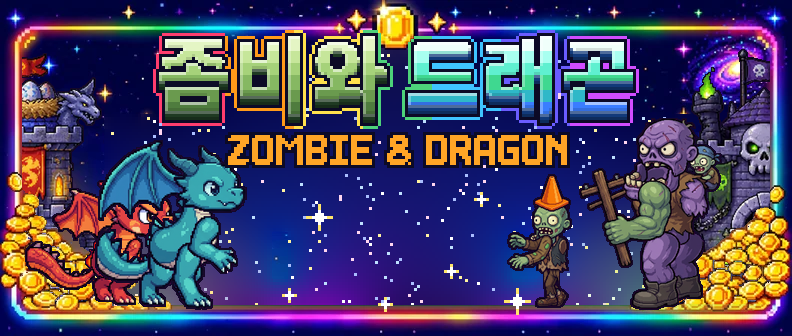
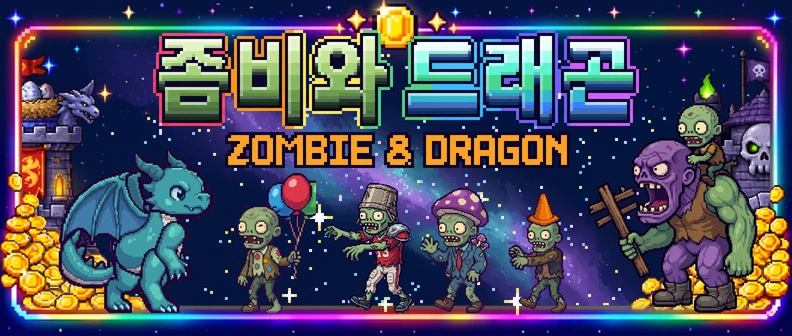
좀비와 드래곤 검토 반영 3차: 보조 새 그림 연결 · 폰 꽉 채우기 · 글씨 도트 외곽선 규칙 · 빛번짐 줄임
- 보조 그림(59983dd · 15223b7): 새 타이틀 · 스킬 · 소리 아이콘 · 도트 체력 바(유닛 · 양쪽 성) · 호박 빛 · 검은 박쥐 떼
  · 브레스 단추 새 그림은 대표님 말씀대로 이전 그림으로 되돌림
- 폰 가로: 좌우 빈칸 없이 가로를 꽉 채움 · 모자라면 하늘 위를 더 자르고 땅은 아래 띠 바로 위에 · 위 · 아래 띠 · 단추 더 얇고 작게
- 글씨 규칙: 흐린 그림자 · 글로우 금지 → 1px 8방향 도트 외곽선(--idg-pxo 변수) 22곳 일괄
- 빛번짐 규칙: 브레스 · 화로 · 시작 단추 · 카드 번쩍의 번짐 글로우를 딱딱한 테 · 아주 약한 밝기로
- 용 카드: 얼굴과 숫자를 1px 겹쳐 붙임 · 숫자 크게 / 화로 칸: 화로 · Lv · 값 가운데
- R2 판 번호 idg 20261111c · ui 20261111b (같은 이름 그림이 바뀜) — 업로드 끝 · 브레스 되돌린 그림은 배포 전에 다시 올려야 함

diff --git a/src/styles/iandragon-game.css b/src/styles/iandragon-game.css
@@ -1,4 +1,6 @@
 /* 이안 드래곤 게임 (2026-11-10) — 세로 로비 + 가로 게임 화면 */
+/* 글씨 외곽선 규칙 (2026-11-11 대표님 «그림자만 있으면 픽셀아트 느낌이 사라진다 · 규칙으로 정해») — 흐린 그림자 · 글로우 금지, 1px 8방향 딱딱한 외곽선 + 아래 2px */
+:root { --idg-pxo: 1px 0 0 #1a0c38, -1px 0 0 #1a0c38, 0 1px 0 #1a0c38, 0 -1px 0 #1a0c38, 1px 1px 0 #1a0c38, -1px 1px 0 #1a0c38, 1px -1px 0 #1a0c38, -1px -1px 0 #1a0c38, 0 2px 0 #1a0c38; --idg-pxo-fire: 1px 0 0 #7a1c00, -1px 0 0 #7a1c00, 0 1px 0 #7a1c00, 0 -1px 0 #7a1c00, 1px 1px 0 #7a1c00, -1px 1px 0 #7a1c00, 1px -1px 0 #7a1c00, -1px -1px 0 #7a1c00, 0 2px 0 #7a1c00; --idg-pxo-gold: 1px 0 0 #7a4a00, -1px 0 0 #7a4a00, 0 1px 0 #7a4a00, 0 -1px 0 #7a4a00, 1px 1px 0 #7a4a00, -1px 1px 0 #7a4a00, 1px -1px 0 #7a4a00, -1px -1px 0 #7a4a00, 0 2px 0 #7a4a00; --idg-pxo-red: 1px 0 0 #5a0000, -1px 0 0 #5a0000, 0 1px 0 #5a0000, 0 -1px 0 #5a0000, 1px 1px 0 #5a0000, -1px 1px 0 #5a0000, 1px -1px 0 #5a0000, -1px -1px 0 #5a0000, 0 2px 0 #5a0000; }
 
 /* ── 가로 게임 화면에 있는 동안만 : 오락실의 «폭 450» 틀을 풀어 창 전체를 쓴다 (reset.css 11/6 규칙의 예외) ── */
 html.idg-wide body { width: 100%; }
@@ -48,15 +50,15 @@ html.idg-wide body { width: 100%; }
   padding: max(6px, env(safe-area-inset-top)) max(8px, env(safe-area-inset-right)) max(6px, env(safe-area-inset-bottom)) max(8px, env(safe-area-inset-left)); }
 .idg-hud .idg-btn { pointer-events: auto; cursor: pointer; border: 2px solid #FFC93C; background: rgba(20, 8, 42, .85); color: #FFC93C; border-radius: 10px; font: inherit; touch-action: manipulation; }
 .idg-hud .idg-btn:active { transform: translateY(1px); }
-.idg-top { display: flex; align-items: center; gap: 8px; text-shadow: 0 2px 0 #000; }
+.idg-top { display: flex; align-items: center; gap: 8px; text-shadow: var(--idg-pxo); }
 .idg-pause, .idg-speed { min-width: 40px; height: 34px; padding: 0 8px; }
 .idg-title { color: #FFC93C; white-space: nowrap; overflow: hidden; text-overflow: ellipsis; max-width: 30%; }
 .idg-time { color: #e9dcc0; }
 .idg-money { margin-left: auto; display: flex; align-items: center; gap: 4px; padding: 3px 10px; border-radius: 999px; background: rgba(20, 8, 42, .8); color: #FFD27a; font-size: 15px; }
 .idg-ico-ember { width: 14px; height: 18px; display: inline-block; background: radial-gradient(circle at 50% 70%, #ffe27a 0 30%, #ff7a1a 31% 60%, transparent 61%); }
-.idg-hp { display: flex; justify-content: space-between; margin-top: 4px; font-size: 14px; text-shadow: 0 2px 0 #000; }
+.idg-hp { display: flex; justify-content: space-between; margin-top: 4px; font-size: 14px; text-shadow: var(--idg-pxo); }
 .idg-hp-me { color: #9cf; } .idg-hp-foe { color: #f99; }
-.idg-boss { position: absolute; left: 50%; top: 44px; transform: translateX(-50%); display: none; align-items: center; gap: 6px; color: #ffb3b3; text-shadow: 0 2px 0 #000; }
+.idg-boss { position: absolute; left: 50%; top: 44px; transform: translateX(-50%); display: none; align-items: center; gap: 6px; color: #ffb3b3; text-shadow: var(--idg-pxo); }
 .idg-boss.on { display: flex; }
 .idg-boss b { width: 180px; height: 10px; border: 2px solid #ff6b6b; border-radius: 6px; background: rgba(0, 0, 0, .6); overflow: hidden; display: block; }
 .idg-boss i { display: block; height: 100%; background: linear-gradient(#ff8a8a, #d32f2f); }
@@ -77,7 +79,7 @@ html.idg-wide body { width: 100%; }
 .idg-unit .cd { position: absolute; inset: 0; background: conic-gradient(rgba(0,0,0,.65) calc(var(--p, 0) * 360deg), transparent 0); }
 .idg-unit.poor img { filter: grayscale(1) brightness(.55); }
 .idg-unit.flash { animation: idgFlash .35s ease-out; }
-@keyframes idgFlash { from { box-shadow: 0 0 14px #fff, inset 0 0 12px #fff; } }
+@keyframes idgFlash { from { box-shadow: 0 0 0 2px #fff; } }   /* 다 됐을 때 번쩍 = 딱딱한 흰 테 (빛번짐 금지 규칙) */
 .idg-right { display: flex; flex-direction: column; gap: 4px; }
 .idg-skill, .idg-rage { height: 30px; padding: 0 8px; font-size: 11px; }
 .idg-skill:disabled { opacity: .4; }
@@ -166,7 +168,7 @@ html.idg-wide body { width: 100%; }
 .idg-hatch-grid { display: grid; grid-template-columns: repeat(1, 120px); gap: 6px; justify-content: center; }
 .idg-hatch-grid.ten { grid-template-columns: repeat(5, 1fr); }
 .idg-hatch-card { display: flex; flex-direction: column; align-items: center; padding: 4px; border-radius: 10px; border: 2px solid #6fb7ff; background: #1a1033; color: #fff; font: 11px 'Neo둥근모', monospace; animation: idgPop .35s backwards cubic-bezier(.3, 1.6, .5, 1); }
-.idg-hatch-card.super { border-color: #c08bff; } .idg-hatch-card.legend { border-color: #ffd84a; box-shadow: 0 0 12px #ffd84a; }
+.idg-hatch-card.super { border-color: #c08bff; } .idg-hatch-card.legend { border-color: #ffd84a; box-shadow: 0 0 0 2px #ffd84a; }
 .idg-hatch-card img { width: 48px; height: 48px; object-fit: contain; image-rendering: pixelated; }
 .idg-hatch-card span { color: #FFC93C; font-size: 10px; }
 @keyframes idgPop { from { transform: scale(.2); opacity: 0; } }
@@ -213,7 +215,7 @@ html.idg-wide body { width: 100%; }
 /* 보스 이름 띠 (2026-11-11) — 보스 등장 컷인 1.2초 동안. 얼굴은 캔버스(bossFx.js), 글씨는 여기 DOM */
 .idg-bossname { position: absolute; left: 0; right: 0; top: 56%; display: none; padding: 8px 0 8px 6%; background: linear-gradient(90deg, rgba(120, 0, 0, .85), rgba(40, 0, 0, .75) 70%, rgba(0, 0, 0, 0)); border-top: 2px solid #ff6b6b; border-bottom: 2px solid #ff6b6b; }
 .idg-bossname.on { display: block; animation: idgBossName 1.2s linear forwards; }
-.idg-bossname b { font-size: 30px; letter-spacing: 4px; color: #ffe08a; text-shadow: 0 3px 0 #000, 0 0 12px #ff3a1a; }
+.idg-bossname b { font-size: 30px; letter-spacing: 4px; color: #ffe08a; text-shadow: var(--idg-pxo); }
 @keyframes idgBossName { 0% { transform: translateX(-100%); opacity: 1 } 20% { transform: translateX(0) } 80% { transform: translateX(0); opacity: 1 } 100% { transform: translateX(0); opacity: 0 } }
 
 /* 멀티 — 상대를 기다리는 중 (2026-11-11) */
@@ -232,7 +234,7 @@ html.idg-wide body { width: 100%; }
 .idg-tile:active { transform: translateY(2px); box-shadow: 0 1px 0 #8a5a00; }
 .idg-tile.locked { opacity: .5; } .idg-tile.dot::after { content: ''; position: absolute; top: 6px; right: 6px; width: 10px; height: 10px; border-radius: 50%; background: #ff4d4d; box-shadow: 0 0 6px #ff4d4d; }
 .idg-start { width: 100%; min-height: 64px; border: 0; border-radius: 16px; background: url(/assets/iandragon_game/ui/lobby/btn_start.png) center / 100% 100% no-repeat, linear-gradient(180deg, #ff7a1a, #c2410c); color: #fff;
-  font: 900 22px 'Neo둥근모', monospace; letter-spacing: 2px; text-shadow: 0 3px 0 #5a1a00; box-shadow: 0 4px 0 #6a2200; margin-bottom: 8px; }
+  font: 900 22px 'Neo둥근모', monospace; letter-spacing: 2px; text-shadow: var(--idg-pxo-fire); box-shadow: 0 4px 0 #6a2200; margin-bottom: 8px; }
 .idg-start:active { transform: translateY(2px); box-shadow: 0 2px 0 #6a2200; }
 
 /* 친구랑 같이 깨기 (2026-11-11) */
@@ -249,40 +251,40 @@ html.idg-wide body { width: 100%; }
   #120a26 url(/assets/iandragon_game/ui/lobby/bg.webp) center top / cover no-repeat; }   /* bg.webp = A안 · B안으로 정하시면 bg_b.webp 를 bg.webp 로 */
 .panel.idg-panel { background: rgba(22, 12, 48, .82); border: 22px solid transparent; border-width: 22px 30px; border-radius: 0;
   border-image: url(/assets/iandragon_game/ai/lobby/frame.webp) 88 118 / 22px 30px / 6px 8px stretch; box-shadow: none; padding: 6px 4px; text-align: center; }
-.idg-tile { min-height: 54px; padding: 2px 10px 2px 4px; border-radius: 0; background: none; box-shadow: none; color: #ffe9b0; text-shadow: 0 2px 0 #1a0c38, 0 0 6px #000;
+.idg-tile { min-height: 54px; padding: 2px 10px 2px 4px; border-radius: 0; background: none; box-shadow: none; color: #ffe9b0; text-shadow: var(--idg-pxo);
   border: 12px solid transparent; border-width: 12px 18px; border-image: url(/assets/iandragon_game/ai/lobby/btn_menu.webp) 58 80 fill / 12px 18px stretch; }
 .idg-tile img { width: 44px; height: 44px; }
 .idg-tile:active { filter: brightness(.82); box-shadow: none; }
-.idg-start { min-height: 74px; border-radius: 0; background: none; box-shadow: none; text-shadow: 0 2px 0 #7a1c00, 0 0 8px #ff8a2a;
+.idg-start { min-height: 74px; border-radius: 0; background: none; box-shadow: none; text-shadow: var(--idg-pxo-fire);
   border: 18px solid transparent; border-width: 18px 40px; border-image: url(/assets/iandragon_game/ai/lobby/btn_start.webp) 70 150 fill / 18px 40px stretch; animation: idgSkinBreath 2.4s ease-in-out infinite; }
 .idg-start:active { box-shadow: none; filter: brightness(.9); }
-@keyframes idgSkinBreath { 50% { filter: brightness(1.12) drop-shadow(0 0 8px #ff7a1a88); } }
+@keyframes idgSkinBreath { 50% { filter: brightness(1.06); } }
 /* 로비 창 (스테이지 고르기 · 둥지 · 연구소 · 도감 · 과제 · 하는 법 · 같이 깨기) */
 .dialog[class*="idg-"] { background: none; color: #e8dcff; box-shadow: none; border: 26px solid transparent; border-image: url(/assets/iandragon_game/ai/lobby/dialog.webp) 64 64 fill / 26px stretch; }
-.dialog .idg-how-title { display: block; margin: -6px auto 8px; padding: 8px 44px 12px; width: fit-content; color: #fff; text-shadow: 0 2px 0 #7a1c00;
+.dialog .idg-how-title { display: block; margin: -6px auto 8px; padding: 8px 44px 12px; width: fit-content; color: #fff; text-shadow: var(--idg-pxo-fire);
   background: url(/assets/iandragon_game/ai/lobby/ribbon.webp) center / 100% 100% no-repeat; }
 .dialog[class*="idg-"] p, .idg-world-name, .idg-multi-msg, .idg-multi-code { color: #e8dcff; }
-.dialog[class*="idg-"] .pbtn { background: none; color: #ffe9b0; text-shadow: 0 2px 0 #1a0c38; box-shadow: none;
+.dialog[class*="idg-"] .pbtn { background: none; color: #ffe9b0; text-shadow: var(--idg-pxo); box-shadow: none;
   border: 12px solid transparent; border-width: 10px 16px; border-image: url(/assets/iandragon_game/ai/lobby/btn_menu.webp) 58 80 fill / 10px 16px stretch; }
-.dialog[class*="idg-"] .pbtn.primary { color: #fff; text-shadow: 0 2px 0 #7a1c00; border-width: 12px 28px; border-image: url(/assets/iandragon_game/ai/lobby/btn_start.webp) 70 150 fill / 12px 28px stretch; }
+.dialog[class*="idg-"] .pbtn.primary { color: #fff; text-shadow: var(--idg-pxo-fire); border-width: 12px 28px; border-image: url(/assets/iandragon_game/ai/lobby/btn_start.webp) 70 150 fill / 12px 28px stretch; }
 .idg-multi-code b { color: #ffe9b0; }
-.idg-stage-btn { border: 0; border-radius: 0; background: url(/assets/iandragon_game/ai/lobby/tile.webp) center / 100% 100% no-repeat; min-height: 60px; text-shadow: 0 1px 0 #000; }
+.idg-stage-btn { border: 0; border-radius: 0; background: url(/assets/iandragon_game/ai/lobby/tile.webp) center / 100% 100% no-repeat; min-height: 60px; text-shadow: var(--idg-pxo); }
 .idg-stage-btn.boss { background-image: url(/assets/iandragon_game/ai/lobby/tile_boss.webp); padding-top: 8px; }
 .idg-stage-btn.locked { background-image: url(/assets/iandragon_game/ai/lobby/tile_locked.webp); opacity: 1; color: #aab; }
 .idg-stage-btn .idg-stage-stars { color: #ffd84a; }
-.idg-world-tab { border: 0; border-radius: 50%; width: 42px; height: 42px; background: url(/assets/iandragon_game/ai/lobby/badge.webp) center / 100% 100% no-repeat; color: #ffe9b0; text-shadow: 0 1px 0 #000; }
+.idg-world-tab { border: 0; border-radius: 50%; width: 42px; height: 42px; background: url(/assets/iandragon_game/ai/lobby/badge.webp) center / 100% 100% no-repeat; color: #ffe9b0; text-shadow: var(--idg-pxo); }
 .idg-world-tab.on { background-image: url(/assets/iandragon_game/ai/lobby/badge_on.webp); color: #fff; }
-.idg-nest-help, .idg-nest-deck, .idg-hatch-info, .idg-codex-h, .idg-nest-coins { color: #ffd98a; text-shadow: 0 1px 0 #1a0c38; }
+.idg-nest-help, .idg-nest-deck, .idg-hatch-info, .idg-codex-h, .idg-nest-coins { color: #ffd98a; text-shadow: var(--idg-pxo); }
 /* 전투 HUD : 위 · 아래 띠 · 돌 판 버튼 · 용 카드 칸 · 불꽃 브레스 판 */
 .idg-top { border: 10px solid transparent; border-width: 8px 14px 12px; border-image: url(/assets/iandragon_game/ai/hud/bar_top.webp) 34 60 40 fill / 8px 14px 12px stretch; margin: 0 -4px; padding: 0 6px; }
 .idg-bot { border: 10px solid transparent; border-width: 12px 14px 8px; border-image: url(/assets/iandragon_game/ai/hud/bar_bottom_clean.webp) 40 60 34 fill / 12px 14px 8px stretch; padding: 2px 6px; }
-.idg-hud .idg-btn { border: 8px solid transparent; border-radius: 0; background: none; border-image: url(/assets/iandragon_game/ui/hud_btn_square.png) 24 fill / 8px stretch; image-rendering: pixelated; color: #ffe9b0; text-shadow: 0 1px 0 #000; }
+.idg-hud .idg-btn { border: 8px solid transparent; border-radius: 0; background: none; border-image: url(/assets/iandragon_game/ui/hud_btn_square.png) 24 fill / 8px stretch; image-rendering: pixelated; color: #ffe9b0; text-shadow: var(--idg-pxo); }
 .idg-hud .idg-btn:active { border-image-source: url(/assets/iandragon_game/ui/hud_btn_square_pressed.png); transform: none; }
 .idg-hud .idg-pause { background: url(/assets/iandragon_game/ui/hud_pause.png) center / 20px no-repeat; border-image-source: url(/assets/iandragon_game/ui/hud_btn_round.png); }
 .idg-hud .idg-unit { border: 0; border-image: none; background: url(/assets/iandragon_game/ai/hud/slot.webp) center / 100% 100% no-repeat; overflow: visible; }
 .idg-hud .idg-unit img { width: 78%; margin: 4px auto 0; height: 34px; }
 .idg-hud .idg-unit:not(.poor) { background-image: url(/assets/iandragon_game/ai/hud/slot_ready.webp); }
-.idg-hud .idg-unit .cost { background: none; text-shadow: 0 1px 0 #000, 0 0 3px #000; bottom: 3px; }
+.idg-hud .idg-unit .cost { background: none; text-shadow: var(--idg-pxo); bottom: 3px; }
 .idg-hud .idg-unit .cd { inset: 4px; border-radius: 4px; }
 .idg-hud .idg-breath { width: 64px; height: 64px; border: 0; border-image: none; overflow: hidden; border-radius: 50%; background: url(/assets/iandragon_game/ai/hud/btn_breath.webp) center / 100% 100% no-repeat; }
 .idg-hud .idg-breath .fill { border-radius: 50%; inset: 8px; width: auto; height: auto; opacity: .45; clip-path: inset(calc((1 - var(--p, 0)) * 100%) 0 0 0); }
@@ -293,12 +295,12 @@ html.idg-wide body { width: 100%; }
 .idg-card:has(h2.win)::before, .idg-card:has(h2.lose)::before { content: ''; display: block; width: min(340px, 70vw); aspect-ratio: 16 / 9; margin: -6px auto 8px; border-radius: 8px;
   background: url(/assets/iandragon_game/ai/result/win.webp) center / cover no-repeat; box-shadow: 0 0 0 3px #1a0c38, 0 0 0 5px #c9963a; }
 .idg-card:has(h2.lose)::before { background-image: url(/assets/iandragon_game/ai/result/lose.webp); }
-.idg-stars span.on { color: #ffd84a; text-shadow: 0 2px 0 #7a4a00, 0 0 8px #ffb000; }
+.idg-stars span.on { color: #ffd84a; text-shadow: var(--idg-pxo-gold); }
 .idg-boss b { width: 200px; height: 18px; border: 6px solid transparent; border-radius: 0; background: rgba(0, 0, 0, .55); border-image: url(/assets/iandragon_game/ai/hud/bar_progress.webp) 40 60 fill / 6px 9px stretch; background-clip: padding-box; }
 .idg-mini { border: 5px solid transparent; border-radius: 0; background: rgba(10, 4, 24, .7); background-clip: padding-box; height: 20px; border-image: url(/assets/iandragon_game/ai/hud/bar_progress.webp) 40 60 fill / 5px 8px stretch; }
 .idg-tile span { white-space: nowrap; font-size: 13px; letter-spacing: -.5px; overflow: hidden; text-overflow: ellipsis; }
 .idg-tile { gap: 4px; padding-right: 4px; } .idg-tile img { width: 38px; height: 38px; } .idg-tile span { font-size: 12px; }   /* 375 폭에서 «연구소 · 리더» 잘림 (보조 의견) */
-.pbtn.idg-back { position: relative; min-height: 46px; background: none; box-shadow: none; color: #ffe9b0; text-shadow: 0 2px 0 #1a0c38, 0 0 6px #000;
+.pbtn.idg-back { position: relative; min-height: 46px; background: none; box-shadow: none; color: #ffe9b0; text-shadow: var(--idg-pxo);
   border: 12px solid transparent; border-width: 12px 18px; border-image: url(/assets/iandragon_game/ai/lobby/btn_menu.webp) 58 80 fill / 12px 18px stretch; }
 .pbtn.idg-back::before { content: ''; display: inline-block; width: 26px; height: 26px; margin-right: 6px; vertical-align: middle; background: url(/assets/iandragon_game/ai/lobby/ico_arcade.png) center / contain no-repeat; image-rendering: pixelated; }
 .pbtn.idg-back:active { filter: brightness(.82); }
@@ -310,7 +312,7 @@ html.idg-wide body { width: 100%; }
 .idg-diff-btn { min-width: 76px; min-height: 36px; border-radius: 10px; border: 2px solid #c9963a; background: rgba(26, 14, 52, .85); color: #e8dcff; font: 700 13px 'Neo둥근모', monospace; }
 .idg-diff-btn.on.easy { background: #2f8a4a; color: #fff; } .idg-diff-btn.on.normal { background: #7a5cff; color: #fff; } .idg-diff-btn.on.hard { background: #c2262e; color: #fff; }
 .idg-diff-btn:disabled { opacity: .5; }
-.idg-stage-stars.red, .idg-stars.red span.on { color: #ff4d4d !important; text-shadow: 0 2px 0 #5a0000, 0 0 8px #ff2a2a !important; }
+.idg-stage-stars.red, .idg-stars.red span.on { color: #ff4d4d !important; text-shadow: var(--idg-pxo-red) !important; }
 .idg-diff { font-weight: 700; } .idg-diff.hard { color: #ff6a6a; } .idg-diff.easy { color: #7ee08f; }
 .idg-mate { position: absolute; left: 50%; top: 62px; transform: translateX(-50%); padding: 3px 12px; border-radius: 10px; background: rgba(20, 60, 30, .8); color: #c8ffd0; font: 700 12px 'Neo둥근모', monospace; display: none; pointer-events: none; }
 .idg-mate.on { display: block; } .idg-mate.foe { background: rgba(80, 16, 20, .8); color: #ffd0d0; }
@@ -354,7 +356,7 @@ html.idg-wide body { width: 100%; }
 .idg-bot { align-items: center; gap: 8px; }
 .idg-hud .idg-wallet { width: 66px; height: 58px; border: 0; border-image: none; background: url(/assets/iandragon_game/ai/hud/slot.webp) center / 100% 100% no-repeat; gap: 1px; padding: 4px 0 6px; line-height: 1; }   /* 네모 돌 판 모서리의 검은 사각 그림자 → 덱 칸과 같은 판 */
 .idg-hud .idg-wallet.can { background-image: url(/assets/iandragon_game/ai/hud/slot_ready.webp); box-shadow: none; animation: idgGlowF 1s ease-in-out infinite alternate; }
-@keyframes idgGlowF { from { filter: drop-shadow(0 0 2px #ff9a2e); } to { filter: drop-shadow(0 0 8px #ff9a2e); } }
+@keyframes idgGlowF { to { filter: brightness(1.08); } }
 .idg-hud .idg-wallet b { font-size: 14px; color: #ffe9b0; } .idg-hud .idg-wallet span { font-size: 12px; color: #FFD27a; }
 .idg-hud .idg-unit { height: 58px; }
 .idg-deck .idg-unit { flex: 0 1 56px; }
@@ -376,7 +378,7 @@ html.idg-wide body { width: 100%; }
 .idg-hud .idg-breath { width: 72px; height: 72px; flex: none; transition: transform .15s; }
 .idg-hud .idg-breath b { width: 44px; height: 44px; }
 .idg-hud .idg-breath.can { animation: idgBreathPulse .9s ease-in-out infinite; box-shadow: 0 0 0 3px #ffd84a, 0 0 16px 6px rgba(255, 122, 26, .85); }
-@keyframes idgBreathPulse { 50% { transform: scale(1.09); filter: brightness(1.25) drop-shadow(0 0 10px #ff9a2e); } }
+@keyframes idgBreathPulse { 50% { transform: scale(1.04); filter: brightness(1.08); } }
 /* 안내 말풍선 : 아래 띠 위로 · 화면 밖으로 잘리지 않게 */
 .idg-tip { max-width: calc(100% - 24px); text-align: center; line-height: 1.35; font-size: 15px; z-index: 2; }
 .idg-tip[data-at="deck"] { bottom: 100px; } .idg-tip[data-at="breath"] { right: 8px; bottom: 100px; } .idg-tip[data-at="wallet"] { left: 8px; bottom: 100px; }
@@ -385,12 +387,12 @@ html.idg-wide body { width: 100%; }
 
 /* ── 결과 · 시작 · 일시정지 카드 : 호박 모서리가 안 잘리는 판(dialog9) · 버튼은 돌 판 / 불꽃 판 (노란 껍데기 없앰) ── */
 .idg-card { min-width: 300px; max-width: min(460px, 92vw); border-width: 34px 32px; border-image: url(/assets/iandragon_game/ai/lobby/dialog9.webp) 104 100 fill / 34px 32px stretch; padding: 0 6px 2px; }
-.idg-card h2 { margin: 0 0 6px; font-size: 22px; line-height: 1.2; text-align: center; text-shadow: 0 2px 0 #1a0c38; }
+.idg-card h2 { margin: 0 0 6px; font-size: 22px; line-height: 1.2; text-align: center; text-shadow: var(--idg-pxo); }
 .idg-stars { font-size: 30px; letter-spacing: 2px; line-height: 1; margin: 0 0 6px; }
 .idg-row { gap: 6px; margin-top: 10px; flex-wrap: wrap; }
 .idg-hud .idg-row .idg-btn { min-height: 50px; padding: 0 10px; border-style: solid; border-color: transparent; border-width: 10px 16px; border-image: url(/assets/iandragon_game/ai/lobby/btn_menu.webp) 58 80 fill / 10px 16px stretch;
-  background: none; color: #ffe9b0; font: 700 15px 'Neo둥근모', monospace; text-shadow: 0 2px 0 #1a0c38, 0 0 6px #000; line-height: 1; }
-.idg-hud .idg-row .idg-btn.main { border-width: 12px 28px; border-image: url(/assets/iandragon_game/ai/lobby/btn_start.webp) 70 150 fill / 12px 28px stretch; color: #fff; font-size: 17px; font-weight: 900; text-shadow: 0 2px 0 #7a1c00, 0 0 8px #ff8a2a; }
+  background: none; color: #ffe9b0; font: 700 15px 'Neo둥근모', monospace; text-shadow: var(--idg-pxo); line-height: 1; }
+.idg-hud .idg-row .idg-btn.main { border-width: 12px 28px; border-image: url(/assets/iandragon_game/ai/lobby/btn_start.webp) 70 150 fill / 12px 28px stretch; color: #fff; font-size: 17px; font-weight: 900; text-shadow: var(--idg-pxo-fire); }
 .idg-hud .idg-row .idg-btn:active { filter: brightness(.85); border-image-source: url(/assets/iandragon_game/ai/lobby/btn_menu.webp); }
 .idg-hud .idg-row .idg-btn.main:active { border-image-source: url(/assets/iandragon_game/ai/lobby/btn_start.webp); }
 .idg-hud .idg-cons { min-height: 36px; pointer-events: auto; }
@@ -478,7 +480,7 @@ html.idg-wide body { width: 100%; }
 .idg-hall-title { font-size: 11px; color: #ffd84a; }
 .idg-hall-val { flex: none; text-align: right; display: flex; flex-direction: column; align-items: flex-end; }
 /* 창 제목 : 리본 그림이 «만들다 만 것 같다»(대표님) → 새 제목판(보조 제작 중)이 올 때까지 금빛 글씨 + 양옆 장식 줄 */
-.dialog .idg-how-title { background: none; padding: 6px 4px 8px; color: #ffe08a; font-size: 18px; letter-spacing: 1px; text-shadow: 0 2px 0 #7a1c00, 0 0 8px #ff9a2e88; display: flex; align-items: center; gap: 10px; width: 100%; justify-content: center; }
+.dialog .idg-how-title { background: none; padding: 6px 4px 8px; color: #ffe08a; font-size: 18px; letter-spacing: 1px; text-shadow: var(--idg-pxo-fire); display: flex; align-items: center; gap: 10px; width: 100%; justify-content: center; }
 .dialog .idg-how-title::after { content: none; }
 .dialog[class*="idg-"] > .idg-how-title { background: linear-gradient(90deg, transparent, #c9963a 18%, transparent 19%, transparent 81%, #c9963a 82%, transparent) center bottom / 100% 2px no-repeat, #3f2a5a; }
 /* 명예의 전당 탭 : 3칸 + 2칸 두 줄 · 글씨는 가로로 */
@@ -494,3 +496,56 @@ html.idg-wide body { width: 100%; }
 .idg-hall-face .f-hat { position: absolute; left: 50%; top: -6px; width: 26px; height: 22px; transform: translateX(-50%); }
 .idg-hall-face .f-frame { position: absolute; inset: 0; width: 44px; height: 44px; }
 .idg-hall-row { align-items: center; padding: 4px 8px; }
+/* 보조 새 그림 (11/11) : 브레스 메달을 판 가운데 꽉 · 스킬 메달 조금 크게 */
+.idg-hud .idg-breath b { width: 50px; height: 50px; margin: 0 auto; }
+.idg-hud .idg-skill .ico { width: 34px; height: 34px; margin-top: -12px; }
+@media (max-height: 430px) { .idg-hud .idg-breath b { width: 38px; height: 38px; } .idg-hud .idg-skill .ico { width: 26px; height: 26px; margin-top: -9px; } }
+
+/* ── 용 카드 · 화로 칸 3차 (11/11 대표님 «얼굴이 둥 떠 있고 숫자와 사이가 비었다 · 1픽셀 겹치게 · 숫자 크게 · Lv1 가운데») ──
+ * 판 안쪽(테두리 6px 안)을 세로로 채운다 : 얼굴(위) → 숫자(아래, 얼굴과 1px 겹침). 둘 다 가운데. */
+.idg-hud .idg-unit { display: flex; flex-direction: column; align-items: center; justify-content: center; padding: 5px 4px 6px; }
+.idg-hud .idg-unit img { position: static; transform: none; width: 100%; height: auto; flex: 1 1 0; min-height: 0; max-height: 34px; object-fit: contain; object-position: 50% 100%; margin: 0 0 -1px; }
+.idg-hud .idg-unit .cost { position: static; flex: none; font: 700 17px/1 'Neo둥근모', monospace; color: #ffe08a; letter-spacing: 0; z-index: 1; }
+.idg-hud .idg-unit .key { top: 3px; right: 5px; font-size: 10px; color: #e8dcff; text-shadow: var(--idg-pxo); }
+.idg-hud .idg-wallet { display: flex; flex-direction: column; align-items: center; justify-content: center; padding: 5px 4px 6px; gap: 0; text-align: center; }
+.idg-hud .idg-wallet .idg-ico-furnace { width: 26px; height: 22px; margin: 0 0 1px; background-position: 70% 50%; flex: none; }   /* 화로 그림 오른쪽 초록 화살표 몫만큼 → 화로 몸통이 가운데 */
+.idg-hud .idg-wallet b { font: 700 16px/1 'Neo둥근모', monospace; color: #fff3cf; letter-spacing: 0; margin: 0 0 1px; }
+.idg-hud .idg-wallet span { font: 700 14px/1 'Neo둥근모', monospace; color: #ffe08a; }
+/* 폰 가로 : 아래 띠를 더 얇게 (전장을 더 넓게) */
+@media (max-height: 430px) {
+  .idg-bot { border-width: 6px 10px 4px; padding: 0 4px; }
+  .idg-hud .idg-unit, .idg-hud .idg-wallet { height: 44px; padding: 4px 3px 4px; }
+  .idg-hud .idg-unit img { max-height: 24px; }
+  .idg-hud .idg-unit .cost { font-size: 14px; }
+  .idg-hud .idg-wallet .idg-ico-furnace { width: 20px; height: 16px; } .idg-hud .idg-wallet b { font-size: 13px; } .idg-hud .idg-wallet span { font-size: 12px; }
+  .idg-hud .idg-skill, .idg-hud .idg-rage { width: 44px; height: 44px; }
+  .idg-hud .idg-breath { width: 50px; height: 50px; } .idg-hud .idg-breath b { width: 36px; height: 36px; }
+}
+/* 폰 가로 4차 (11/11 대표님 «위 · 아래 띠를 더 얇게 · 단추도 더 작게 · 양끝 빈칸 없이») */
+@media (max-height: 430px) {
+  .idg-hud { padding-top: max(1px, env(safe-area-inset-top)); padding-bottom: 0; }
+  .idg-top { border-width: 3px 8px 5px; gap: 5px; min-height: 0; }
+  .idg-hud .idg-pause { width: 30px; height: 30px; min-width: 30px; }
+  .idg-hud .idg-snd { width: 28px; height: 28px; min-width: 28px; }
+  .idg-hud .idg-speed, .idg-hud .idg-auto { height: 28px; min-width: 34px; font-size: 11px; border-width: 5px; border-image-width: 5px; }
+  .idg-title { font-size: 12px; } .idg-time { font-size: 11px; } .idg-money { font-size: 12px; padding: 1px 7px; } .idg-ico-ember { width: 14px; height: 14px; }
+  .idg-hp { font-size: 12px; margin-top: 1px; }
+  .idg-bot { bottom: max(1px, env(safe-area-inset-bottom)); border-width: 4px 8px 3px; gap: 5px; }
+  .idg-hud .idg-unit, .idg-hud .idg-wallet { height: 40px; padding: 3px 3px 4px; }
+  .idg-deck .idg-unit { flex: 0 1 42px; min-width: 38px; }
+  .idg-hud .idg-wallet { width: 48px; }
+  .idg-hud .idg-unit img { max-height: 21px; }
+  .idg-hud .idg-unit .cost { font-size: 13px; }
+  .idg-hud .idg-wallet .idg-ico-furnace { width: 18px; height: 14px; } .idg-hud .idg-wallet b { font-size: 12px; } .idg-hud .idg-wallet span { font-size: 11px; }
+  .idg-hud .idg-skill, .idg-hud .idg-rage { width: 40px; height: 40px; } .idg-hud .idg-skill .ico { width: 22px; height: 22px; margin-top: -7px; } .idg-hud .idg-skill .nm { font-size: 8px; bottom: 5px; }
+  .idg-hud .idg-breath { width: 46px; height: 46px; } .idg-hud .idg-breath b { width: 32px; height: 32px; }
+  .idg-tip[data-at] { top: 44px; font-size: 12px; padding: 4px 10px; }
+  .idg-mini { display: none; }
+}
+/* 브레스 : 이전 그림으로 되돌림 · 빛번짐은 아주 약하게 (대표님 «빛번짐 과도 금지 · 은은하고 약하게 · 그 전 디자인이 더 예뻤다») */
+.idg-hud .idg-breath b { width: 44px; height: 38px; }
+.idg-hud .idg-breath.can { box-shadow: 0 0 0 2px #ffd84a; animation: idgBreathSoft 1.2s steps(2) infinite; }
+@keyframes idgBreathSoft { 50% { transform: scale(1.04); filter: brightness(1.08); } }
+.idg-hud .idg-rage.on { animation: idgBreathSoft 1s steps(2) infinite; }
+.idg-hud .idg-wallet.can { animation: none; filter: none; }
+@media (max-height: 430px) { .idg-hud .idg-breath b { width: 32px; height: 28px; } }

diff --git a/src/games/iandragon_game/render/battleView.js b/src/games/iandragon_game/render/battleView.js
@@ -44,6 +44,19 @@ export async function createBattleView(ctx, { world, L, dragons, enemies, leader
     loadFun().catch(() => null),   // 재미 그림이 없어도 전투는 연다 (코드 검토 2)
   ]);
 
+  /* 체력 바 도트 그림 (그림 담당 hp_bars.json · 2026-11-11 대표님 «생명 게이지가 도트가 아니다») — 없으면 예전 막대 */
+  const [hpUF, hpUMe, hpUFoe, hpCF, hpCFill, hpMeta] = await Promise.all([...['hp_unit_frame', 'hp_unit_fill_me', 'hp_unit_fill_foe', 'hp_castle_frame', 'hp_castle_fill'].map((n) => tryLoad(`${AI}hud/${n}.png`)), fetch(`${AI}hud/hp_bars.json`).then((r) => (r.ok ? r.json() : null)).catch(() => null)]);
+  const hpArt = !!(hpUF && hpUMe && hpUFoe && hpMeta);
+  /** 도트 체력 바 하나 : 테두리 + 채움(왼쪽 맞춤 · 비율만큼 가로로 줄임). W = 화면 너비 */
+  function makeBar(frameT, fillT, m, W) {
+    const c = new Container(), k = W / m.frame[0];
+    const fr = new Sprite(frameT); fr.scale.set(k); fr.x = -W / 2;
+    const fl = new Sprite(fillT); fl.position.set(-W / 2 + m.fill.x * k, m.fill.y * k);
+    c.addChild(fr, fl);   // 테두리 안쪽 홈이 칠해져 있어 채움을 위에
+    c.set = (f) => { fl.scale.set((m.fill.w * k * Math.max(0, Math.min(1, f))) / fillT.width, (m.fill.h * k) / fillT.height); };
+    c.set(1); return c;
+  }
+
   if (pvp) towerT.splice(0, 4, ...nestT);   // 대결 : 양쪽 다 용 둥지
   /* ── 층 : 배경 · 재미(뒤) · 성 · 유닛 · 효과 · 재미(앞) */
   const root = new Container(); app.stage.addChild(root);
@@ -67,6 +80,7 @@ export async function createBattleView(ctx, { world, L, dragons, enemies, leader
   const nest = new Sprite(nestT[0]); nest.anchor.set(0.5, 1); nest.position.set(M - 40, GY + 10);
   const tower = new Sprite(towerT[0]); tower.anchor.set(0.5, 1); tower.position.set(M + L + 40, GY + 10); if (pvp) tower.scale.x = -1;
   stage.addChild(nest, tower, units, fx);
+  const castleBars = hpCF && hpCFill && hpMeta ? [0, 1].map(() => stage.addChild(makeBar(hpCF, hpCFill, hpMeta.castle, 120))) : [];   // 양쪽 성 위 체력 바
   const shade = new Graphics().rect(-50, -50, FIELD + 100, 700).fill(0x000000); shade.alpha = 0; root.addChild(shade);
   /* 안개 기믹 : 내 맨 앞 + 260칸 너머를 짙은 안개로 (화면 전용) */
   const fog = new Graphics(); root.addChildAt(fog, root.getChildIndex(funFront));
@@ -211,9 +225,10 @@ export async function createBattleView(ctx, { world, L, dragons, enemies, leader
       v.flash -= dt; R.root.filters = v.flash > 0 ? [white] : null;
       if (u.hp < u.maxHp && v.flash > 0) v.barT = 1.5;
       if ((v.barT = (v.barT || 0) - dt) > 0 && u.alive && !buried) {   // 체력바 : 맞으면 잠깐
-        if (!v.bar) { v.bar = new Graphics(); badges.addChild(v.bar); }
-        const w = u.boss ? 60 : 30, f = Math.max(0, u.hp / u.maxHp);
-        v.bar.clear().rect(-w / 2, 0, w, 4).fill({ color: 0x000000, alpha: 0.6 }).rect(-w / 2, 0, w * f, 4).fill(u.side === (mirror ? 1 : 0) ? 0x6bdc6b : 0xff5a4a);
+        const w = u.boss ? 72 : 38, f = Math.max(0, u.hp / u.maxHp), mine = u.side === (mirror ? 1 : 0);
+        if (!v.bar) { v.bar = hpArt ? makeBar(hpUF, mine ? hpUMe : hpUFoe, hpMeta.unit, w) : new Graphics(); badges.addChild(v.bar); }
+        if (hpArt) v.bar.set(f);
+        else v.bar.clear().rect(-w / 2, 0, w, 4).fill({ color: 0x000000, alpha: 0.6 }).rect(-w / 2, 0, w * f, 4).fill(mine ? 0x6bdc6b : 0xff5a4a);
         v.bar.visible = true; v.bar.alpha = Math.min(1, v.barT * 2); v.bar.position.set(Math.round(v.x), Math.round(v.y + dy - (v.h || 60) - 4));
       } else if (v.bar) v.bar.visible = false;
       const sk = u.alive && !buried ? stOf(u) : null, tx = sk && stTex[sk];
@@ -251,6 +266,7 @@ export async function createBattleView(ctx, { world, L, dragons, enemies, leader
       if (T[i]) spr.texture = T[i];
       const key = side ? 'tower' : 'nest'; shakes[key] -= dt;
       spr.x = (side ? M + L + 40 : M - 40) + (shakes[key] > 0 ? (Math.random() * 4 - 2) : 0);
+      const cb = castleBars[side]; if (cb) { cb.set(r); cb.position.set(side ? M + L + 40 : M - 40, GY + 10 - spr.height - ((side ? lead2 : lead) ? 96 : 16)); cb.visible = !S.stage.raid || !side; cb.scale.x = mirror ? -1 : 1; }   /* 리더 용이 서 있으면 그 머리 위 */
     }
   }
   function effects(S, dt) {

diff --git a/src/games/iandragon_game/render/app.js b/src/games/iandragon_game/render/app.js
@@ -34,11 +34,14 @@ export function fitView(cssW, cssH, dpr, ins = { t: 0, b: 0 }) {
    * 2026-11-11 대표님 «PC 에서 배경이 흐리다» : 예전엔 960×540 으로 그린 캔버스를 그대로 늘려서 제미나이 고해상도 그림이 뭉개졌다.
    * 이제 화면을 꽉 채우는 배율(kFit)로 맞추고, 캔버스 자체를 그 배율만큼 촘촘하게 그린다(res · 상한 RES_MAX — 태블릿 · 고밀도 폰 부담).
    */
-  const k = kFit;
+  /* 띠가 있을 때 : 좌우 빈칸이 생기면 안 된다(대표님 «양끝 여백 없이 · 확대된 듯한 화면이 좋다») → 가로를 꽉 채우는 배율보다 작아지지 않게 */
+  const k = ins.t || ins.b ? Math.max(kFit, pw / MAX_W) : kFit;
   const w = Math.max(BASE_W, Math.min(MAX_W, Math.floor(pw / k)));
   const res = Math.max(1, Math.min(RES_MAX, Math.round(k * 4) / 4));
   const cw = (w * k) / dpr, ch = (BASE_H * k) / dpr;
-  const top = ins.t || ins.b ? ins.t - (SKY_CUT * k) / dpr + ((cssH - ins.t - ins.b) - (band * k) / dpr) / 2 : (cssH - ch) / 2;
+  const avail = cssH - ins.t - ins.b, bandCss = (band * k) / dpr;
+  /* 띠 사이에 다 들어가면 가운데 · 모자라면 땅 줄(흙 위)을 아래 띠 바로 위에 붙이고 하늘 위쪽을 더 자른다 (땅 · 유닛은 항상 보이게) */
+  const top = !(ins.t || ins.b) ? (cssH - ch) / 2 : bandCss <= avail ? ins.t + (avail - bandCss) / 2 - (SKY_CUT * k) / dpr : cssH - ins.b - ((BASE_H - DIRT_CUT) * k) / dpr;
   return { w, h: BASE_H, k, res, cssW: cw, cssH: ch, left: (cssW - cw) / 2, top };
 }
 

diff --git a/src/games/iandragon_game/render/funGround.js b/src/games/iandragon_game/render/funGround.js
@@ -146,8 +146,8 @@ export function pumpkin(E) {
    * 빛은 제미나이 도트 후광(pumpkin_glow.png · 보조 제작 중)이 있을 때만 깐다. 없으면 눈에 불 들어온 그림(pumpkin_grin)만.
    */
   const p = E.pump, glowT = E.tex.pumpkin_glow;
-  const glow = glowT ? sp(glowT, p.x, p.y - 14) : null;
-  if (glow) { glow.alpha = 0; E.back.addChildAt(glow, E.back.getChildIndex(p)); }
+  const glow = glowT ? sp(glowT, p.x, p.y - p.height / 2) : null;   // 99칸 그림 가운데 33칸 = 호박 자리
+  if (glow) { glow.alpha = 0; glow.blendMode = 'add'; E.back.addChildAt(glow, E.back.getChildIndex(p)); }
   return {
     zone: p.x,
     update(t) {

diff --git a/src/games/iandragon_game/render/fun.js b/src/games/iandragon_game/render/fun.js
@@ -19,6 +19,8 @@ export async function loadFun() {
   const meta = await (await fetch(BASE + 'fun.json')).json();
   const tex = {};
   await Promise.all(Object.keys(meta.parts).map(async (n) => { tex[n] = await Assets.load(BASE + n + '.png'); tex[n].source.scaleMode = 'nearest'; }));
+  /* 나중에 더한 그림 (fun.json 밖 · 없으면 그 요소가 예전 방식) — 호박 빛 · 박쥐 떼 실루엣 (그림 담당 11/11) */
+  await Promise.all(['pumpkin_glow', 'batswarm_a', 'batswarm_b'].map((n) => Assets.load(BASE + n + '.png').then((t) => { t.source.scaleMode = 'nearest'; tex[n] = t; }).catch(() => {})));
   return tex;
 }
 

diff --git a/src/games/iandragon_game/render/funSky.js b/src/games/iandragon_game/render/funSky.js
@@ -106,7 +106,7 @@ export function swarm(E) {
   const [sy0, sy1] = E.S.sky || [50, 200], yMid = rnd(sy0 + 20, sy1 - 10), n = 26 + Math.floor(Math.random() * 10);
   const bs = Array.from({ length: n }, () => {
     const s = c.addChild(sp(A, 0, 0)); if (black) s.tint = 0x0a0612;
-    const k = rnd(0.32, 0.6); s.scale.set(k * dir, k);
+    const k = black ? rnd(0.32, 0.6) : rnd(0.6, 1.1); s.scale.set(k * dir, k);   // 실루엣 그림은 22칸이라 더 크게
     return { s, k, ox: rnd(-150, 40), oy: rnd(-34, 34), ph: rnd(0, 6), sp: rnd(7, 12), amp: rnd(4, 12) };
   });
   const T = 4.6;
